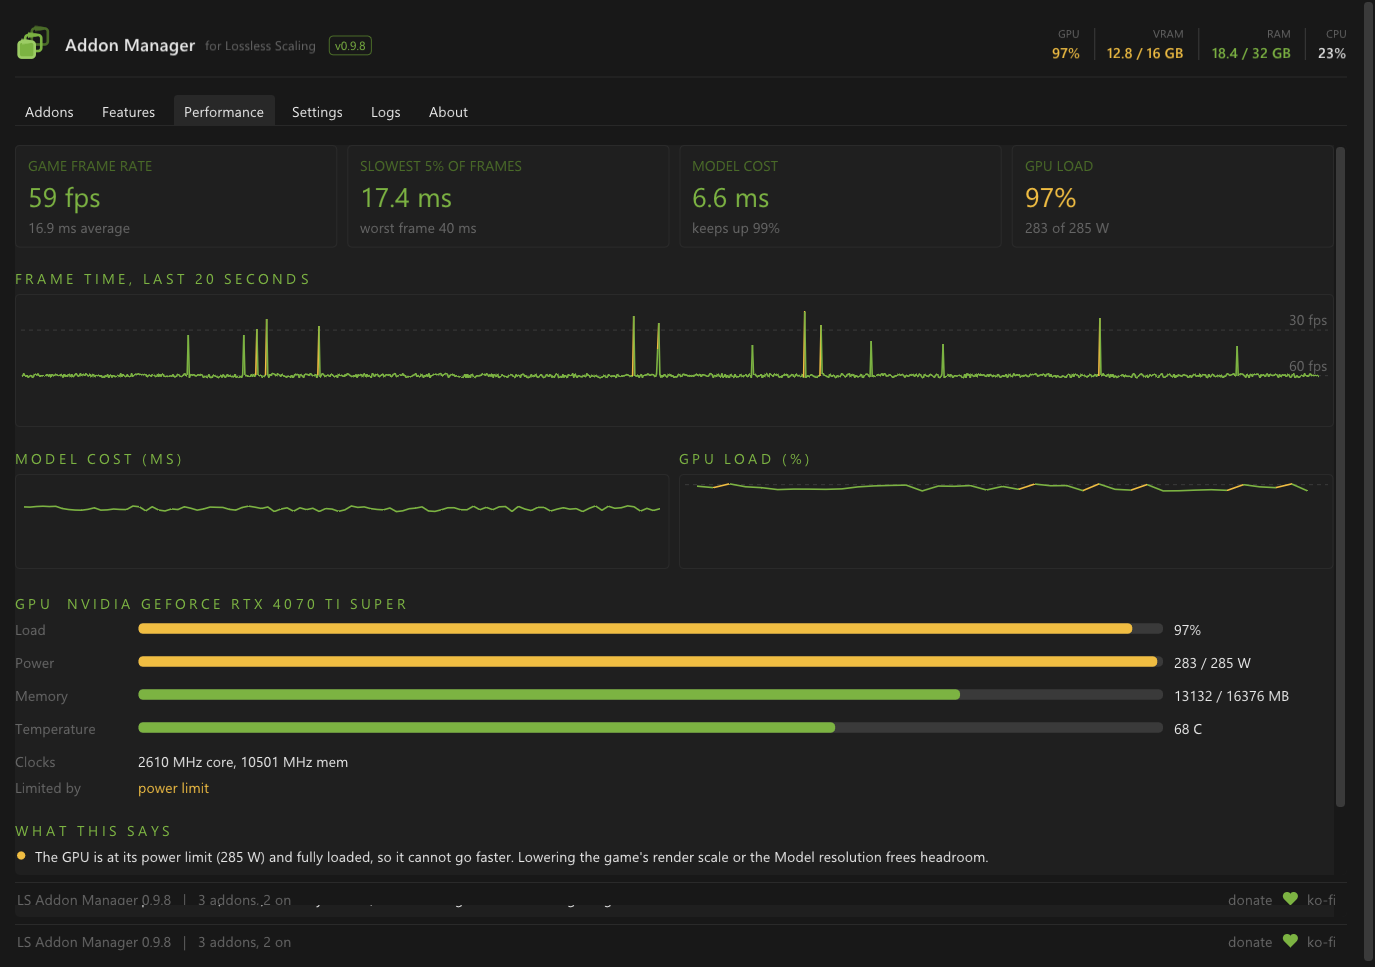
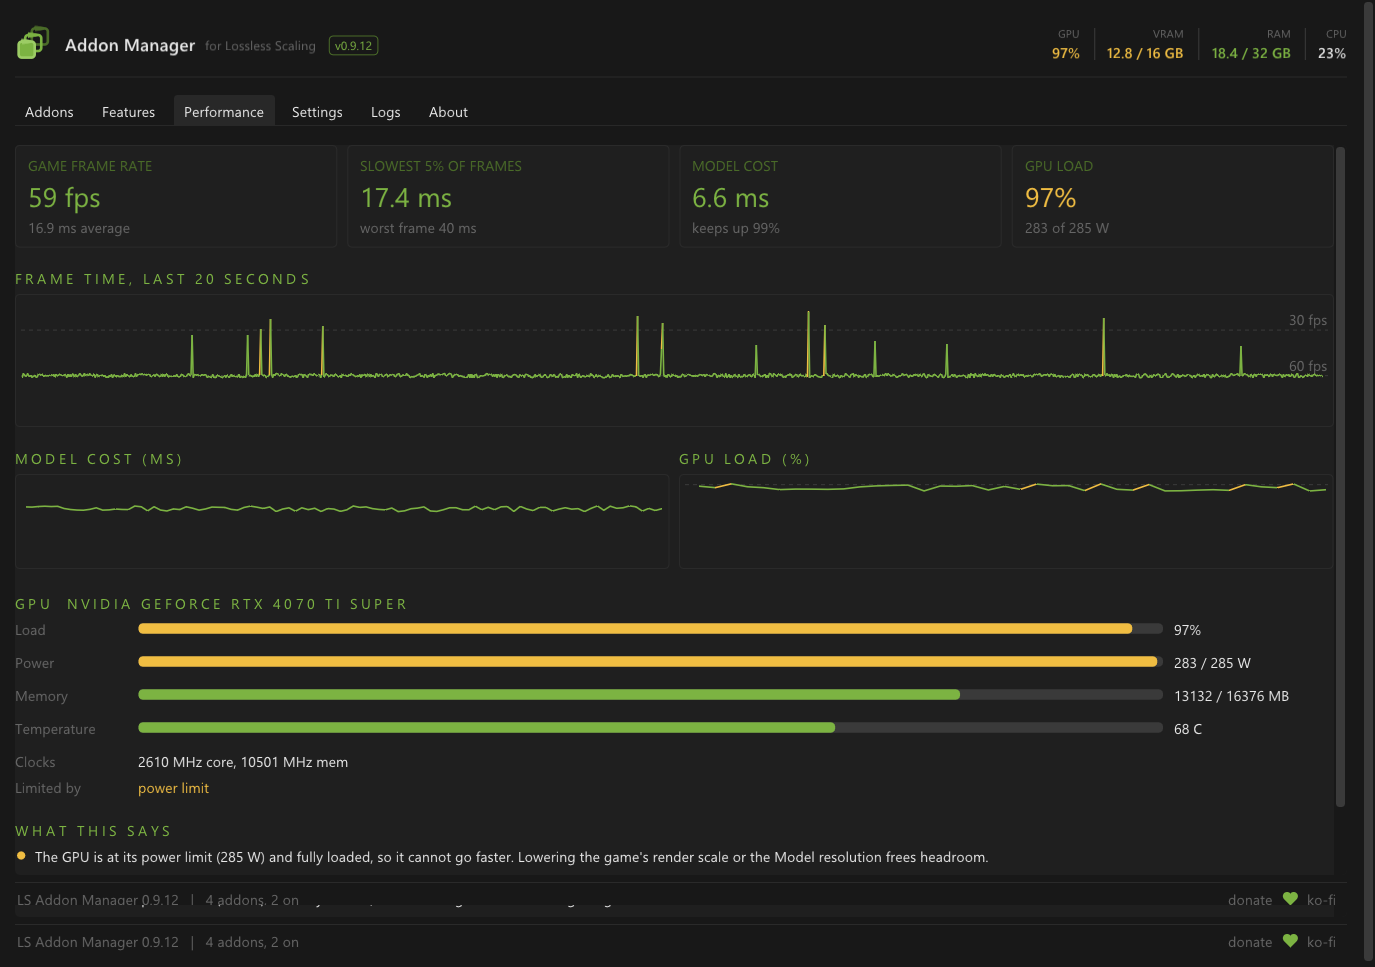
README pictures retaken at 0.9.12: the window with the XeSS Upscaler in the list and its runtime (the preview draws four addons), the Runtimes close-up, and Silent Hill f before / after from new 4K shots (1.png the original, 2.png Neural Rendering); the upscalers' panels and addon.json say one of th

diff --git a/manager/tools/ui_preview.cpp b/manager/tools/ui_preview.cpp
@@ -109,19 +109,21 @@ int main(int argc, char** argv) {
     // EAM_PREVIEW_CLEAN=1 draws the tidy scene used for the README screenshots: no toast, only the first addon on, no error chips.
     char* cleanEnv = nullptr; size_t cleanLen = 0; _dupenv_s(&cleanEnv, &cleanLen, "EAM_PREVIEW_CLEAN");
     const bool clean = cleanEnv != nullptr; free(cleanEnv);
-    // the three plugins as a real install has them, with their own icon.svg files from the repository (tools\..\addons\DLSS5NR01)
+    // the four plugins as a real install has them, with their own icon.svg files from the repository (tools\..\addons\DLSS5NR01)
     std::filesystem::path root;
     { wchar_t exe[MAX_PATH]; GetModuleFileNameW(nullptr, exe, MAX_PATH); root = std::filesystem::path(exe).parent_path().parent_path().parent_path().parent_path(); }
     const std::filesystem::path plugins = root / "addons" / "DLSS5NR01";
-    AddonInfo a, b, c;
+    AddonInfo a, b, c, d;
     a.id = "DLSS5NR01"; a.manifest.name = "DLSS 5 Neural Rendering"; a.manifest.version = EAM_VERSION_STRING; a.manifest.author = "Echo-Storm"; a.hModule = (HMODULE)1; a.enabled = true;
     b.id = "DLSS4DLAA"; b.manifest.name = "DLSS Upscaler"; b.manifest.version = EAM_VERSION_STRING; b.manifest.author = "Echo-Storm"; b.enabled = false;
     c.id = "FSR3UPSC"; c.manifest.name = "FSR Upscaler"; c.manifest.version = EAM_VERSION_STRING; c.manifest.author = "Echo-Storm"; c.hModule = (HMODULE)1; c.enabled = true;
-    a.security = b.security = c.security = SecurityVerdict::Trusted;   // as a real install of our own addons shows them
+    d.id = "XESSUPSC"; d.manifest.name = "XeSS Upscaler"; d.manifest.version = EAM_VERSION_STRING; d.manifest.author = "Echo-Storm"; d.enabled = false;
+    a.security = b.security = c.security = d.security = SecurityVerdict::Trusted;   // as a real install of our own addons shows them
     if (!clean) { b.enabled = true; b.faulted = true; }   // the other scene shows the ERROR state
     ReadSvgIcon(plugins / "icon.svg", a.iconSvg, a.iconSvgView);
     ReadSvgIcon(plugins / "products" / "DLSS4DLAA" / "icon.svg", b.iconSvg, b.iconSvgView);
     ReadSvgIcon(plugins / "products" / "FSR3UPSC" / "icon.svg", c.iconSvg, c.iconSvgView);
+    ReadSvgIcon(plugins / "products" / "XESSUPSC" / "icon.svg", d.iconSvg, d.iconSvgView);
     // the runtimes, as the repository's addon.json files list them, read from the install in D:\Utilities\Lossless Scaling (as the real
     // list reads them: version, signature, SHA-256). EAM_PREVIEW_FSR=<file>: that file as the FSR runtime (only read, never loaded)
     const std::wstring lsDir = L"D:\\Utilities\\Lossless Scaling";
@@ -129,15 +131,20 @@ int main(int argc, char** argv) {
     { AddonManifest m; if (!clean && ReadManifest(plugins / "addon.json", m)) a.manifest.runtimes = m.runtimes; }
     { AddonManifest m; if (ReadManifest(plugins / "products" / "DLSS4DLAA" / "addon.json", m)) b.manifest.runtimes = m.runtimes; }
     { AddonManifest m; if (ReadManifest(plugins / "products" / "FSR3UPSC" / "addon.json", m)) c.manifest.runtimes = m.runtimes; }
+    { AddonManifest m; if (ReadManifest(plugins / "products" / "XESSUPSC" / "addon.json", m)) d.manifest.runtimes = m.runtimes; }
     a.dllPath = lsDir + L"\\addons\\DLSS5NR01\\DLSS5NR01.dll";
     b.dllPath = lsDir + L"\\addons\\DLSS4DLAA\\DLSS4DLAA.dll";
     c.dllPath = lsDir + L"\\addons\\FSR3UPSC\\FSR3UPSC.dll";
+    // XeSS: from the install when it is there, else from this build (its runtime sits in the build's xess folder)
+    d.dllPath = lsDir + L"\\addons\\XESSUPSC\\XESSUPSC.dll";
+    if (GetFileAttributesW((lsDir + L"\\addons\\XESSUPSC\\xess\\libxess.dll").c_str()) == INVALID_FILE_ATTRIBUTES)
+        d.dllPath = (plugins / "build" / "Release" / "XESSUPSC.dll").wstring();
     {
         char* v = nullptr; size_t n = 0; _dupenv_s(&v, &n, "EAM_PREVIEW_FSR");
         if (v && *v && !c.manifest.runtimes.empty()) c.manifest.runtimes[0].file = v;
         free(v);
     }
-    const std::vector<AddonInfo> runtimeAddons = { a, b, c };
+    const std::vector<AddonInfo> runtimeAddons = { a, b, c, d };
     for (int i = 0; i < 100; ++i) {   // the files are read on a thread of their own: wait for them, so the picture shows what they are
         const std::vector<RuntimeFile> rows = RuntimeFiles(runtimeAddons, lsDir);
         bool all = std::all_of(rows.begin(), rows.end(), [](const RuntimeFile& r) { return r.read || !r.exists; });
@@ -149,7 +156,7 @@ int main(int argc, char** argv) {
     float model = 0.5f, sharpen = 0.0f, vib = 1.2f, blend = 0.72f, gamma = 1.0f; int passes = 1, grain = 2; bool sw = true, sw2 = false; int sel = 0;
     const float dModel = 0.35f, dSharpen = 0.0f, dVib = 0.0f, dBlend = 1.0f, dGamma = 1.0f; const int dPasses = 1, dGrain = 1;
     if (!clean) widgets::ToastShow("Installed 'Cool Addon' (switched off). Turn it on with its switch.", widgets::ToastType::Success, 1000.0f);
-    std::string status = window::StatusCounts(3, 2);
+    std::string status = window::StatusCounts(4, 2);
 
     // live data for the cards and the Performance tab: 20 s of a game near 60 fps with a few hitches, a model at ~6.6 ms, a GPU at its cap
     {
@@ -196,7 +203,7 @@ int main(int argc, char** argv) {
         }
         free(v);
         // "DLSS5NR01/_enabled=0": Neural Rendering switched off in the manager, its card and the status bar with it
-        if (host.cfg["DLSS5NR01/_enabled"] == "0") { a.enabled = false; a.hModule = nullptr; status = window::StatusCounts(3, 1); }
+        if (host.cfg["DLSS5NR01/_enabled"] == "0") { a.enabled = false; a.hModule = nullptr; status = window::StatusCounts(4, 1); }
     }
     for (int i = 3; i < argc; ++i) {
         HMODULE h = LoadLibraryA(argv[i]);
@@ -222,7 +229,7 @@ int main(int argc, char** argv) {
         rest = bar == std::string::npos ? std::string() : rest.substr(bar + 1);
     }
     auto addonsTab = [&](int selected) {
-        AddonInfo* list[3] = { &a, &b, &c };
+        AddonInfo* list[4] = { &a, &b, &c, &d };
         AddonInfo& chosen = *list[selected];
         Shell("Addons", status, [&] {
             ImGui::Dummy(ImVec2(0, 5));
@@ -237,9 +244,9 @@ int main(int argc, char** argv) {
             ImGui::Dummy(ImVec2(0, S(6)));
             ImGui::PushStyleColor(ImGuiCol_Separator, eam::ui::theme::V(eam::ui::theme::kBorder)); ImGui::Separator(); ImGui::PopStyleColor();
             ImGui::Dummy(ImVec2(0, S(4)));
-            for (int i = 0; i < 3; ++i) { widgets::AddonCard(*list[i], i, i == selected); ImGui::Dummy(ImVec2(0, S(1))); }
+            for (int i = 0; i < 4; ++i) { widgets::AddonCard(*list[i], i, i == selected); ImGui::Dummy(ImVec2(0, S(1))); }
             {   // as tab_addons.cpp: the runtimes at the bottom of the list
-                std::vector<RuntimeFile> rows = RuntimeFiles({ a, b, c }, lsDir);   // the addons as the scene has them now (on or off)
+                std::vector<RuntimeFile> rows = RuntimeFiles({ a, b, c, d }, lsDir);   // the addons as the scene has them now (on or off)
                 for (RuntimeFile& r : rows) r.loaded = r.addonOn && r.exists && r.addonId == "DLSS5NR01";   // the preview loads none: one running, one waiting, one off
                 // EAM_PREVIEW_RUNTIME_MENU=<line>: that line's + menu shown open
                 char* mv = nullptr; size_t mn = 0; _dupenv_s(&mv, &mn, "EAM_PREVIEW_RUNTIME_MENU");

diff --git a/addons/DLSS5NR01/src/addon/panel.cpp b/addons/DLSS5NR01/src/addon/panel.cpp
@@ -134,7 +134,7 @@ void DrawPanel() {
         else ImGui::TextColored(eam::ui::theme::V(eam::ui::theme::kDanger), "AMD's FSR runtime is missing: the addon's fsr folder should hold amd_fidelityfx_dx12.dll. Reinstall the addon.");
         Note("Works on any graphics card with DirectX 12 (AMD, NVIDIA or Intel). In Lossless Scaling choose NIS as the Scaling Type (FSR takes the place of that pass), "
              "and let the game run in a window smaller than your screen, for example 2560x1440 on a 4K screen; at the screen's own size it anti-aliases instead. "
-             "Frame generation can be on or off. Only one of the FSR and DLSS Upscalers works at a time.");
+             "Frame generation can be on or off. Only one of the upscalers (DLSS, FSR, XeSS) works at a time.");
     }
     else {   // ---- DLAA's requirements: an NVIDIA RTX card, and NVIDIA's runtime, which ships in the addon's dlss folder
         Block("Requirements");
@@ -233,7 +233,7 @@ void DrawPanel() {
         if (ImGui::Checkbox(label.c_str(), &c.enabled)) { changed = true; if (c.enabled) { ClaimFrames(); SwitchOn(); } else ReleaseFrames(); }
         Tip(kScalerAddon
                 ? "Master switch. Off = Lossless Scaling's NIS runs as usual and the upscaler stops.\nTo compare while playing, use the Before / after hotkey instead: it keeps the upscaler running.\n"
-                  "Only one of the DLSS and FSR Upscalers works at a time (switching one on in the addon list switches the other off); either works beside DLSS 5 Neural Rendering."
+                  "Only one of the upscalers (DLSS, FSR, XeSS) works at a time (switching one on in the addon list switches the others off); any of them works beside DLSS 5 Neural Rendering."
                 : "Master switch. Off = Lossless Scaling runs untouched and the model stops.\nTo compare before and after while playing, use the Before / after hotkey instead: it keeps the model running.");
     }
     if (!kScalerAddon) ImGui::SameLine();
